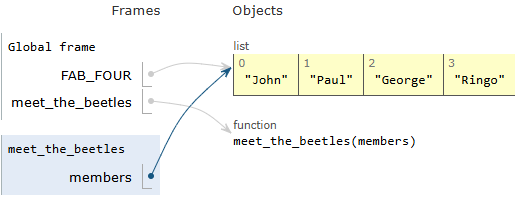
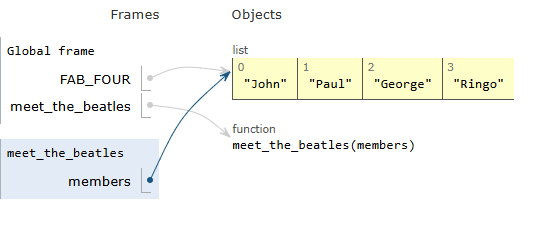
Completed Mutable Parameter Default

diff --git a/students.py b/students.py
@@ -1,0 +1,20 @@
+from rich import pretty, print
+
+pretty.install()
+
+
+def enroll_student(name, students=None):
+    if students is None:
+        students = []
+    students.append(name)
+    return students
+
+
+def main():
+    print(enroll_student("Biffa", students=["Spadger", "Morris"]))
+    print(enroll_student("Moose"))
+    print(enroll_student("Cheeseman"))
+
+
+if __name__ == "__main__":
+    main()

diff --git a/article.MD b/article.MD
@@ -1,9 +1,9 @@
 # Mutable Parameters
-Recently one of our [PDM students](https://pybit.es/catalogue/the-pdm-program/) encountered some unexpected behaviour whilst trying to solve a [Python Bite](https://pybitesplatform.com).  
+Recently someone asked for help in our [Pybites Circle Community](https://pybites.circle.so/) with a [Python Bite](https://pybitesplatform.com) that seemed to be behaving unexpectedly.
 
-It turned out that this was a result of modifying a mutable parameter passed to a function - in this case a dict. 
+It turned out that this was a result of modifying a mutable parameter passed to a function.  
 
-Functions that mutate their input values or modify state in other parts of the program behind the scenes are said to have *side effects* and as a general rule this is best avoided.
+For folks new to programming it is not obvious why modifying a variable inside a function might cause a change outside of that function. Let's have a closer look at the underlying issue.
 
 ## What is a Python Variable
 When considering variables in Python it is a good idea to differentiate between a variable's name and the object that it represents.
@@ -30,6 +30,15 @@ When considering variables in Python it is a good idea to differentiate between 
 [0, 1, 2, 3, 4, 5, 6, 7, 8, 9, 10] #5
 >>> id(nums)
 3034242497984
+
+>>> me = "Tarzan"
+>>> me_too = me
+>>> id(me)
+2546636178128
+>>> id(me_too)
+2546636178128
+>>> me is me_too
+True #6
 ```
 
 1. The `inspiration` variable is pointing to the Singleton `None`
@@ -37,6 +46,7 @@ When considering variables in Python it is a good idea to differentiate between 
 3. The `inspiration` variable is now pointing to a different string, and as strings are `immutable`, the `id` has changed. It's a different object.
 4. The `nums` variable is pointing to a list
 5. The list that `nums` is pointing to has been modified, but the `id` is the same because lists are `mutable`.
+6. Variables `me` and `me_too` are *both* pointing to the same string.
 
 ## Python passes parameters by Reference
 Python passes parameters to functions by Reference - also referred to as *call by sharing*. This results in multiple names bound to the same object.  
@@ -44,26 +54,29 @@ Python passes parameters to functions by Reference - also referred to as *call b
 Consider this simple case where a global variable is passed into a function:
 
 ```
-FAB_FOUR = ["John", "Paul", "George", "Ringo"]
+FAB_FOUR = ["John", "Paul", "George", "Ringo"] #1
 
 
-def meet_the_beetles(members) -> None:
-    members.sort()
+def meet_the_beatles(members) -> None: #2
+    members.sort() #3
     print(f"   ...  {members}")
 
 
 def main():
     print(f"Before: {FAB_FOUR}")
-    meet_the_beetles(FAB_FOUR)
+    meet_the_beatles(FAB_FOUR)
     print(f" After: {FAB_FOUR}")
 
 
 if __name__ == "__main__":
     main()
 ```
+1. Our global variable
+2. Our positional (mutable) parameter
+3. Sorting our *local* variable
+
 Running the above code results in the following output:
 ```
-python main.py
 Before: ['John', 'Paul', 'George', 'Ringo']
    ...  ['George', 'John', 'Paul', 'Ringo']
  After: ['George', 'John', 'Paul', 'Ringo']
@@ -75,11 +88,113 @@ The excellent site [Python Tutor](https://pythontutor.com/) can be used to provi
 
 ![visual_1](visual_1.png)
 
+
 ## Take Care when programming with Mutable Parameters
-Many programmers consider it bad practice for a function to modify a mutable parameter. But such behaviour is not uncommon in the real world.
+Functions that mutate their input values or modify state in other parts of the program behind the scenes are said to have [side effects](https://en.wikipedia.org/wiki/Side_effect_(computer_science)) and as a general rule this is best avoided. However, it is not uncommon to encounter such behaviour in real-world applications and it something we need to be aware of.
 
 At the very least, you should consider carefully whether the caller expects the argument to be changed.
 
 If you want to protect your code from such *side effects*, consider using immutable types where possible/practical. 
 
-If it is not clear to you whether it is safe to modify a passed mutable parameter - create a copy of the parameter and modify that instead. Comprehensions (list comprehension, dictionary comprehension, set comprehension etc) provide a nice pythonic way to create new objects as does the `copy` module with its `copy`, and `deepcopy` functions.
+If it is not clear to you whether it is safe to modify a passed mutable parameter - create a copy of the parameter and modify that instead. Comprehensions provide a nice pythonic way to create new objects as does the `copy` module with its `copy`, and `deepcopy` functions.
+
+
+## Mutable Types as Parameter Defaults
+Python allows us to provide default values for function parameters - making them optional. 
+
+For example, when we call `members.sort()` in our code aboud, the `sort` method has an optional keyword argument `reverse` which defaults to `False`. We can pass it with the value `True` to override the default behaviour:
+
+```
+>>> FAB_FOUR = ["John", "Paul", "George", "Ringo"]
+>>> FAB_FOUR.sort()
+>>> FAB_FOUR
+['George', 'John', 'Paul', 'Ringo']
+>>> FAB_FOUR.sort(reverse=True)
+>>> FAB_FOUR
+['Ringo', 'Paul', 'John', 'George']
+```
+
+Using a Mutable Type as a paramater default should be avoided if possible because it can lead to unexpected and inconsistent behaviour. Consider the following code:
+
+```
+def enroll_student(name, students=[]):
+    students.append(name)
+    return students
+
+
+def main():
+    print(enroll_student("Biffa"))
+    print(enroll_student("Moose"))
+    print(enroll_student("Cheeseman"))
+
+
+if __name__ == "__main__":
+    main()
+```
+
+Running this code produces the following output:
+```
+['Biffa']
+['Biffa', 'Moose']
+['Biffa', 'Moose', 'Cheeseman']
+```
+Our function seems to be retaining information from previous calls.
+
+This is because default values are only evaluated once and are stored in function attribute `__defaults__`.  
+
+Lets modify our code to show this:
+```
+def enroll_student(name, students=[]):
+    print(f"ID of students: {id(students)}")  # 1
+    students.append(name)
+    return students
+
+
+def main():
+    enroll_student("Biffa")
+    print(f"Function Default Values: {enroll_student.__defaults__}")  # 2
+    print(f"ID of default_students: {id(enroll_student.__defaults__[0])}")  # 3
+
+
+if __name__ == "__main__":
+    main()
+```
+1. Print the `id` of local variable `students`
+2. Print the `enroll_student` parameter default values
+3. Print the `id` of `students` default value
+
+Running this code produces the following output:
+```
+ID of students: 2667038141888
+Function Default Values: (['Biffa'],)
+ID of default_students: 2667038141888
+```
+
+This shows that our local `students` variable its *default value* both point to the same object. Modifying the local variable will cause the default value to be updated!
+
+To prevent this behaviour, we can specify `None` as the default value, and handle that case inside our code. `None` is immutable. Here is our new version of the function:
+
+```
+def enroll_student(name, students=None):
+    if students is None:
+        students = []
+    students.append(name)
+    return students
+```
+
+Looking at the output, we can see that the immutable `None` is stored as the function default and our code works consistently:
+
+```
+def main():
+    print(enroll_student("Biffa"))
+    print(enroll_student("Moose"))
+    print(enroll_student("Cheeseman"))
+```
+
+Which produces:
+```
+['Biffa']
+['Moose']
+['Cheeseman']
+```
+
